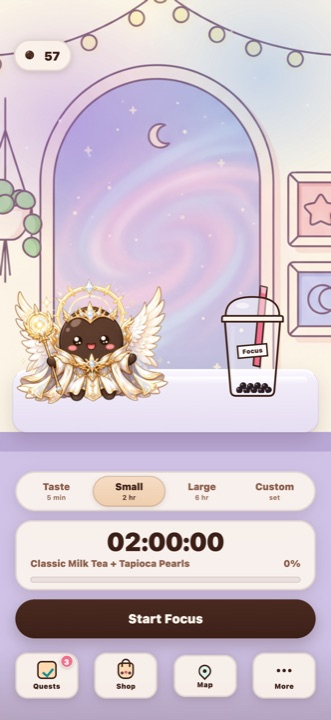
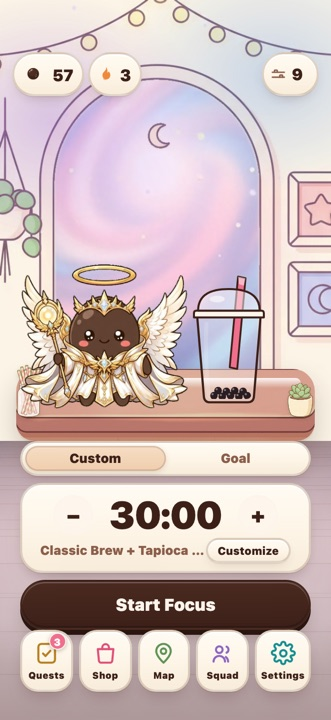
Walk lean + arrival settle; refresh landing screenshots to current UI
- The maker now tips 2.2deg into his direction of travel while gliding
  (rides the walk transition via --walk-lean, bottom-origin so he pivots at
  his feet) and lands with a quick squash-and-recover (wrap-settle) that
  also masks the un-lean. Skipped under prefers-reduced-motion. Verified
  headless: lean 2.2deg mid-walk, 0deg at arrival and back at station.
- Landing page screenshots 01/02/03/04 were from a pre-front-door-flip
  build (old 4-pill nav, 02:00:00 timer). Recaptured from the live UI at
  the same 331x720 size: cozy home, mid-session brew, angel-on-galaxy,
  customize sheet.
- sw.js CACHE -> v208.

diff --git a/app.js b/app.js
@@ -577,6 +577,24 @@ function setWalk(px) {
   return { ms: ms, dist: dist };
 }
 
+// Tip him a couple of degrees into his direction of travel while he glides
+// (rides the walk transition; see --walk-lean in styles.css). Always call
+// arriveAtWalkTarget when a walk lands so the lean never sticks.
+function setLean(deg) {
+  els.makerWrap.style.setProperty("--walk-lean", deg + "deg");
+}
+function leanForWalk(targetPx) {
+  if (prefersReducedMotion()) return;
+  setLean(targetPx >= makerVisualX() ? 2.2 : -2.2);
+}
+function arriveAtWalkTarget() {
+  // Short duration for the un-lean (the walk's own duration was set for the
+  // full glide); the settle squash plays over it and hides the transition.
+  els.makerWrap.style.transitionDuration = "300ms";
+  setLean(0);
+  pulseMaker("settle", 320);
+}
+
 // Walk over to the cup, then start mixing once he arrives. The distance is
 // computed from the cup's ACTUAL on-screen position so he reaches it on any
 // viewport width (a fixed pixel walk fell short on wider phones). He stays in
@@ -601,14 +619,17 @@ function walkToCupAndMix() {
       const targetRight = cupRect.left + cupRect.width * 0.45;
       target = Math.max(0, makerVisualX() + (targetRight - wrapRect.right));
     }
+    leanForWalk(target);
     const trip = setWalk(target);
     if (trip.dist < 8) {
       // Already at the cup (a quick pause→resume) — no waddle theater.
+      setLean(0);
       setMakerState("mixing");
       return;
     }
     setMakerState("walking");
     walkTimer = setTimeout(() => {
+      arriveAtWalkTarget();
       if (state.running && state.phase === "focus") setMakerState("mixing");
     }, trip.ms);
   });
@@ -617,14 +638,19 @@ function walkToCupAndMix() {
 // Walk back to his station, then settle into the given resting state
 function walkToStation(restState = "idle") {
   clearTimeout(walkTimer);
+  leanForWalk(0);
   const trip = setWalk(0);
   if (trip.dist < 8) {
     // Effectively home already — settle without playing the walk.
+    setLean(0);
     setMakerState(restState);
     return;
   }
   setMakerState("walking");
-  walkTimer = setTimeout(() => { if (!state.running) setMakerState(restState); }, trip.ms);
+  walkTimer = setTimeout(() => {
+    arriveAtWalkTarget();
+    if (!state.running) setMakerState(restState);
+  }, trip.ms);
 }
 
 // ─────────────────────────────────────────────────────────────────────────────
@@ -3165,7 +3191,7 @@ function startBreakOffer() {
   // offset. The bed is centred; without this reset he lay in it shifted a full
   // walk-width to the right. Zeroed AFTER the class lands so the break-mode
   // transition:none makes it an instant snap, not a slide across the mattress.
-  clearTimeout(walkTimer); setWalk(0);
+  clearTimeout(walkTimer); setWalk(0); setLean(0);
   // The bed appears the moment this class lands, so settle him into it now.
   // Without this he sat bolt upright under the duvet, wide awake and hopping,
   // until Start Break was tapped.

diff --git a/styles.css b/styles.css
@@ -1325,7 +1325,13 @@ body {
   height: calc(230px * var(--fig));
   z-index: 9;
   --walk: 0px;
-  transform: translateX(var(--walk));
+  --walk-lean: 0deg;
+  /* The lean rides the SAME transition as the glide, so he tips into his
+     direction of travel while moving and rights himself on arrival — set from
+     JS (setLean) only while walking, always 0 at rest. Bottom origin so the
+     lean (and every wrap-level squash) pivots at his feet, not his belly. */
+  transform: translateX(var(--walk)) rotate(var(--walk-lean));
+  transform-origin: center bottom;
   /* The 1050ms here is only the fallback: setWalk() in app.js sets an inline
      transition-duration proportional to the distance, so short hops don't
      play out as a slow-motion crawl under a fast waddle. */
@@ -4539,6 +4545,14 @@ dialog[open] .reward-confetti span:nth-child(7) { animation-delay: 0.02s; }
 .maker-wrap.pop       { animation: wrap-pop       0.42s ease-out; }
 .maker-wrap.celebrate { animation: wrap-celebrate 1.1s  ease-in-out; }
 .maker-wrap.wiggle    { animation: wrap-wiggle    0.8s  ease-in-out; }
+/* Arrival settle: one quick squash-and-recover the moment a walk lands, so he
+   has weight when he stops (and it masks the lean easing back to zero). */
+.maker-wrap.settle    { animation: wrap-settle    0.3s  ease-out; }
+@keyframes wrap-settle {
+  0%   { transform: translateX(var(--walk)) scale(1.05, 0.95); }
+  60%  { transform: translateX(var(--walk)) scale(0.98, 1.02); }
+  100% { transform: translateX(var(--walk)) scale(1, 1); }
+}
 @keyframes wrap-pop {
   0%   { transform: translateX(var(--walk)) translateY(0)     scale(1); }
   40%  { transform: translateX(var(--walk)) translateY(-10px) scale(1.12, 0.92); }

diff --git a/sw.js b/sw.js
@@ -7,7 +7,7 @@
 // and every user silently keeps the OLD cache — updates stop shipping with no
 // error anywhere. That happened: assets/Bed.png was deleted and left listed
 // here, which pinned clients to pre-rebuild art. tools/check-shell.py guards it.
-const CACHE = "mr-tapioca-v207";
+const CACHE = "mr-tapioca-v208";
 
 // Focus-tune audio lives in its OWN cache, on purpose, and is deliberately NOT
 // in SHELL below. Two reasons, both learned the hard way:
